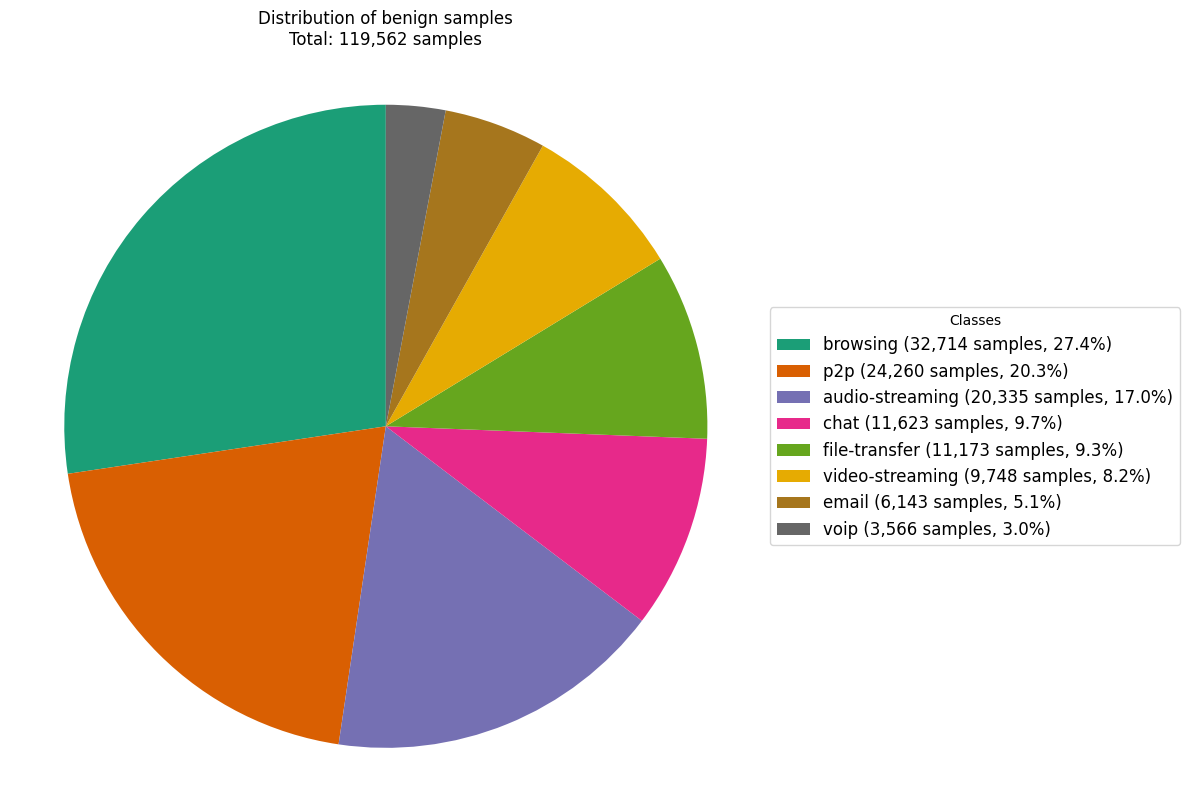
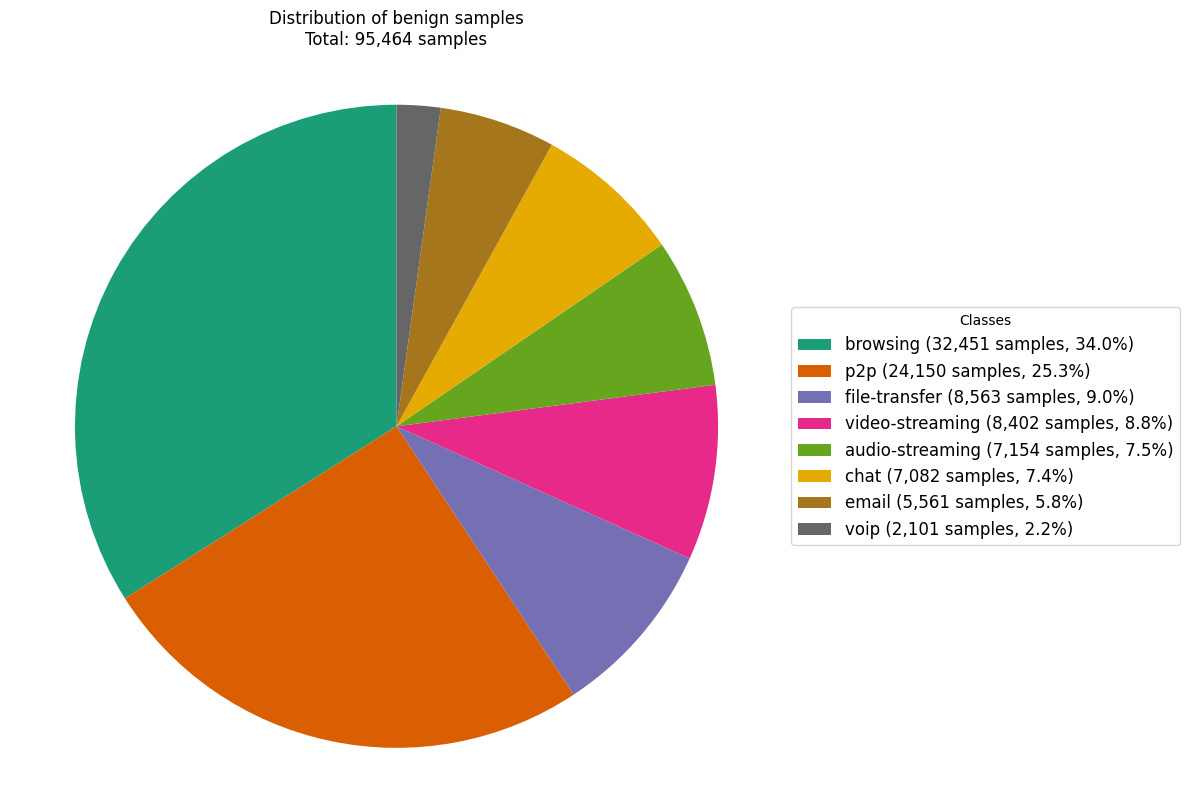
correct counts

diff --git a/darknet/src/stats.py b/darknet/src/stats.py
@@ -256,14 +256,14 @@ class NetworkTrafficVisualizer:
         plt.style.use('dark_background') if self.darkmode else plt.style.use('default')
         plt.figure(figsize=(12, 8), facecolor='black' if self.darkmode else 'white')
         
-        # Get class counts
         if label == 'label':
-            class_counts = self.data['label'].value_counts()
+                class_counts = self.data['label'].value_counts()
+                total = class_counts.sum()
         else:
-            class_counts = self.data['family'].value_counts()
-        
-        # Calculate percentages
-        total = class_counts.sum()
+            filtered_data = self.data[self.data['label'] == label]
+            class_counts = filtered_data['family'].value_counts()
+            total = len(filtered_data)
+
         percentages = (class_counts / total) * 100
         
         # Create custom labels for legend

diff --git a/darknet/src/comparison_graphs.py b/darknet/src/comparison_graphs.py
@@ -348,10 +348,11 @@ class ComparisonGraphs:
         plt.xticks(color='white' if darkmode else 'black')
         plt.tick_params(colors='white' if darkmode else 'black')
         
-        y_offset = (ax.get_ylim()[1] - ax.get_ylim()[0]) * 0.01 
+        top_y = ax.get_ylim()[1]
+        text_y = top_y - (top_y * 0.05)  # 5% below the top
 
         for i, v in enumerate(metric_v):
-            ax.text(i, v + y_offset, f"{v:.2f}",
+            ax.text(i, text_y, f"{v:.2f}",
                     ha='center', va='bottom', fontsize=12,
                     color='white' if darkmode else 'black')
 
